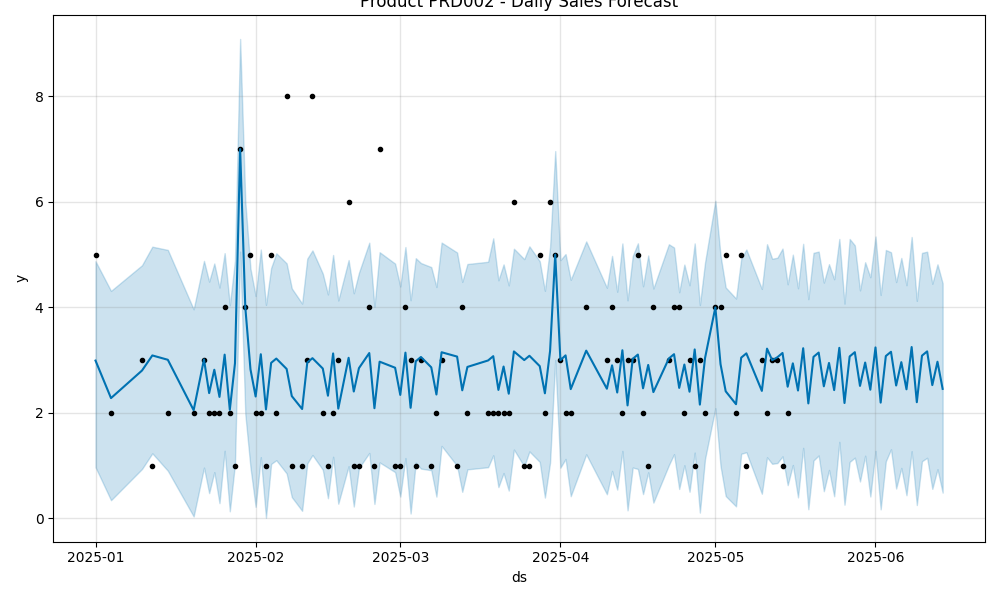
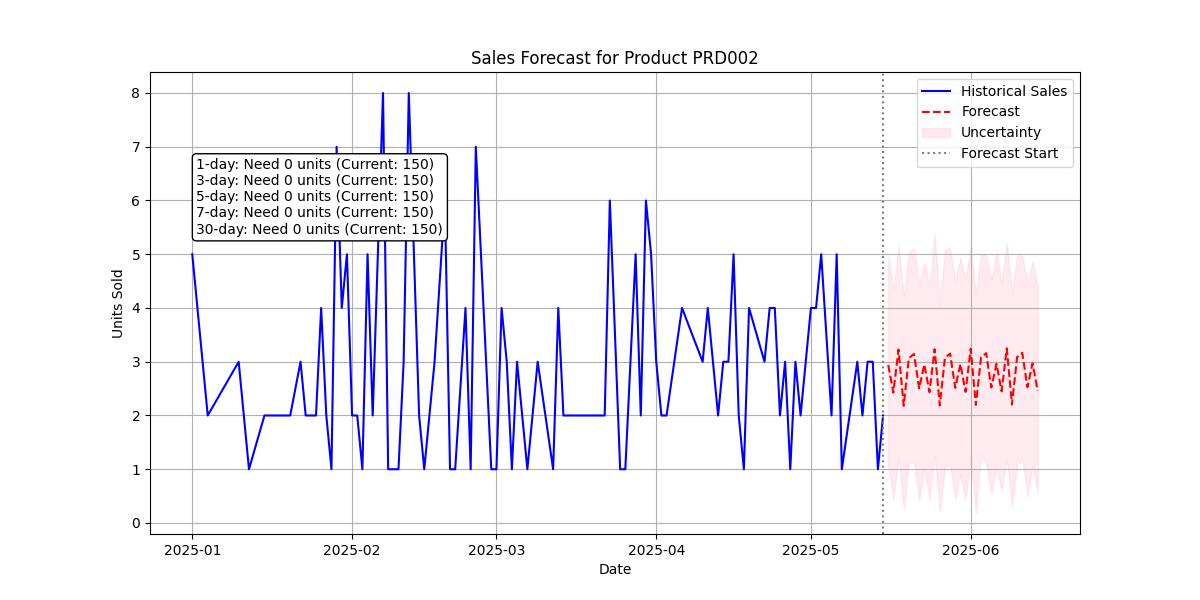
updated model

diff --git a/Training.py b/Training.py
@@ -27,15 +27,17 @@ class suppress_stdout_stderr(contextlib.ContextDecorator):
         return False
 
 # Enhanced forecasting function
+# Modified plotting and stock analysis in generate_forecast function
 def generate_forecast(product_id, data, horizons):
     df_p = data[data['ProductID'] == product_id]
-    if len(df_p) < 14:  # Minimum 2 weeks of data
+    if len(df_p) < 14:
         print(f"Skipping {product_id} - insufficient data ({len(df_p)} records)")
         return None
-    
+
     stock = product_stock.get(product_id, 0)
-    
+
     try:
+        # Model setup and training
         model = Prophet(
             yearly_seasonality=False,
             weekly_seasonality=True,
@@ -46,45 +48,76 @@ def generate_forecast(product_id, data, horizons):
             seasonality_mode='additive'
         )
         model.add_country_holidays(country_name='MY')
-        
+
         with suppress_stdout_stderr():
             model.fit(df_p[['ds', 'y']])
-        
+
         future = model.make_future_dataframe(periods=max(horizons))
         forecast = model.predict(future)
-        
+
         # Generate predictions for all horizons
         predictions = {
             days: forecast[forecast['ds'] > df_p['ds'].max()].head(days)
             for days in horizons
         }
-        
-        # Stock analysis and alerts
+
+        # Create custom line plot
+        plt.figure(figsize=(12, 6))
+        plt.plot(df_p['ds'], df_p['y'], 'b-', label='Historical Sales')
+
+        # Plot forecasted values
+        forecast_dates = forecast[forecast['ds'] > df_p['ds'].max()]
+        plt.plot(forecast_dates['ds'], forecast_dates['yhat'], 'r--', label='Forecast')
+
+        # Add uncertainty shading
+        plt.fill_between(forecast_dates['ds'], 
+                        forecast_dates['yhat_lower'], 
+                        forecast_dates['yhat_upper'], 
+                        color='pink', alpha=0.3, label='Uncertainty')
+
+        plt.axvline(x=df_p['ds'].max(), color='gray', linestyle=':', label='Forecast Start')
+        plt.title(f"Sales Forecast for Product {product_id}")
+        plt.xlabel('Date')
+        plt.ylabel('Units Sold')
+        plt.legend()
+        plt.grid(True)
+
+        # Add restock info to plot
+        restock_text = []
+        for days in horizons:
+            forecast_subset = predictions[days]
+            total_forecast = round(sum(forecast_subset['yhat']))
+            needed = max(total_forecast - stock, 0)
+            restock_text.append(
+                f"{days}-day: Need {needed} units (Current: {stock})"
+            )
+
+        plt.annotate('\n'.join(restock_text),
+                    xy=(0.05, 0.65), 
+                    xycoords='axes fraction',
+                    bbox=dict(boxstyle="round", fc="white"))
+
+        plt.savefig(f'forecast_plots/product_{product_id}.png')
+        plt.close()
+
+        # Modified stock analysis
         for days in horizons:
             forecast_subset = predictions[days]
             daily_forecast = forecast_subset['yhat'].values
-            cumulative_stock = stock - np.cumsum(daily_forecast)
-            
-            stockout_days = np.where(cumulative_stock < 0)[0]
-            status = "Restock Needed" if len(stockout_days) > 0 else "OK"
-            
+            total_forecast = round(sum(daily_forecast))
+            restock_amount = max(total_forecast - stock, 0)
+
             forecast_data.append({
                 'ProductID': product_id,
                 'HorizonDays': days,
-                'TotalForecast': round(sum(daily_forecast)),
+                'TotalForecast': total_forecast,
                 'CurrentStock': stock,
-                'Status': status,
-                'FirstStockout': stockout_days[0]+1 if len(stockout_days) > 0 else None
+                'RestockNeeded': restock_amount,
+                'StockStatus': 'OK' if restock_amount == 0 else 'Restock Needed'
             })
-        
-        # Plotting
-        fig = model.plot(forecast)
-        plt.title(f"Product {product_id} - Daily Sales Forecast")
-        plt.savefig(f'forecast_plots/product_{product_id}.png')
-        plt.close()
-        
+
         return predictions
-        
+
     except Exception as e:
         print(f"Error processing {product_id}: {str(e)}")
         return None
